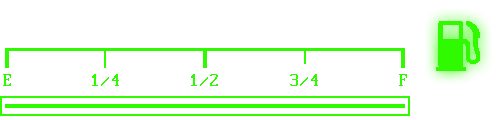
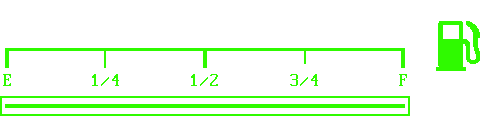
client: работа над нпц "Заправка"

Changed region(s): [[0.84, 0.1, 0.99, 0.675]]

diff --git a/sublayers_common/static/js/location/npc_gas_station.js b/sublayers_common/static/js/location/npc_gas_station.js
@@ -1,0 +1,152 @@
+var LocationGasStationNPC = (function (_super) {
+    __extends(LocationGasStationNPC, _super);
+
+    function LocationGasStationNPC(npc_rec, jq_town_div, building_name) {
+        //console.log('LocationPlaceNPC', npc_rec);
+        _super.call(this, npc_rec, jq_town_div, building_name);
+
+        this.filler_div_max_width = 400;
+        this.rail_width = 0;
+        this.min_carette_x = 0;
+        this.current_prc_gas = 0;
+        this.jq_repair_page = null;
+        this.jq_gs_fill_gas = null;
+        this.jq_gs_fill_need = null;
+        this.jq_gs_carette = null;
+    }
+
+    LocationGasStationNPC.prototype.get_self_info = function () {
+        //console.log('LocationPlaceBuilding.prototype.get_self_info');
+    };
+
+    LocationGasStationNPC.prototype.activate = function () {
+        //console.log('LocationHangarNPC.prototype.activate');
+        _super.prototype.activate.call(this);
+        this.update();
+    };
+
+    LocationGasStationNPC.prototype.update = function (data) {
+        console.log('LocationGasStationNPC.prototype.activate');
+        this.jq_repair_page = this.jq_main_div.find('.npc-gas-station-scale-block-main');
+        var jq_repair_page = this.jq_repair_page;
+        this.jq_repair_page.empty();
+
+        if (user.example_car) {
+            user.example_car.fuel = user.example_car.fuel / 2;
+            jq_repair_page.append(
+                '<div class="npc-gas-station-fillcar-block">' +
+                    '<div class="building-gas-repair-scale-block">' +
+                        '<div class="building-gas-repair-scale"></div>' +
+                        '<div class="building-gas-repair-fill"></div>' +
+                        '<div id="gasStationRepairNeedFeel" class="building-gas-repair-fill need-for-feel"></div>' +
+                        '<div id="gasStationRepairInGasTank" class="building-gas-repair-fill in-gas-tank"></div>' +
+                        '<div id="gasStationRepairRail" class="building-gas-repair-rail">' +
+                            '<div id="gasStationRepairCarrette" class="building-gas-repair-carette"></div>' +
+                        '</div>' +
+                        '<div id="gasStationRepairGasValue" class="building-gas-repair-hp-value building-gas-repair-text"></div>' +
+                        '<div class="building-gas-repair-hp-text building-gas-repair-text">л</div>' +
+                    '</div>' +
+                '</div>');
+
+            this.filler_div_max_width = jq_repair_page.find('.building-gas-repair-fill').first().outerWidth();
+            this.jq_gs_fill_gas = jq_repair_page.find('#gasStationRepairInGasTank');
+            this.jq_gs_fill_need = jq_repair_page.find('#gasStationRepairNeedFeel');
+            this.jq_gs_carette = jq_repair_page.find('#gasStationRepairCarrette');
+            this.jq_gas_value = jq_repair_page.find('#gasStationRepairGasValue');
+
+
+            // Повесить драгабл на каретку
+            var jq_rail = jq_repair_page.find('#gasStationRepairRail');
+            this.rail_width = jq_rail.outerWidth() - this.jq_gs_carette.outerWidth();
+            this.jq_gs_carette.draggable({
+                containment: jq_rail,
+                axis: "x",
+                start: LocationPlace.start_drag_handler,
+                drag: this.drag_handler.bind(this)
+            });
+
+            // Установить начальные значения для филов и карретки
+            var prc_hp = user.example_car.fuel / user.example_car.max_fuel;
+            this.min_carette_x = prc_hp * this.rail_width;
+            this.current_prc_gas = prc_hp;
+            this.set_filler(this.jq_gs_fill_gas, prc_hp);
+            this.set_filler(this.jq_gs_fill_need, prc_hp);
+            this._set_carette(prc_hp);
+            this._show_text_gas();
+        }
+        else {
+            jq_repair_page.text('Отсутствует машинка');
+        }
+
+
+        _super.prototype.update.call(this, data);
+    };
+
+    LocationGasStationNPC.prototype.set_filler = function (jq_filler, prc) {
+        jq_filler.width(prc * this.filler_div_max_width);
+    };
+
+    LocationGasStationNPC.prototype._set_carette = function (prc) {
+        this.jq_gs_carette.animate({'left': this.rail_width * prc}, 100);
+    };
+
+    LocationGasStationNPC.prototype._get_gas_by_prc = function (prc) {
+        return Math.round(prc * user.example_car.max_fuel);
+    };
+
+    LocationGasStationNPC.prototype._show_text_gas = function () {
+        var gas = this._get_gas_by_prc(this.current_prc_gas);
+        this.jq_gas_value.text(gas);
+
+        // заполнить в шапку стоимость ремонта
+        var current_gas = gas - user.example_car.fuel;
+        if (current_gas < 0) current_gas = 0;
+        this.set_header_text(
+            'Заправка: ' + current_gas.toFixed(0) + ' NC</br>' +
+            'Заправка всего: ' + (user.example_car.max_fuel - user.example_car.fuel).toFixed(0) + 'NC'
+        );
+    };
+
+    LocationGasStationNPC.prototype.drag_handler = function (event, ui) {
+        var original = ui.originalPosition;
+        ui.position = {
+            left: (event.clientX - location_draggable_click.x + original.left) / window_scaled_prc,
+            top: original.top / window_scaled_prc
+        };
+        if (ui.position.left < this.min_carette_x) ui.position.left = this.min_carette_x;
+        if (ui.position.left > this.rail_width) ui.position.left = this.rail_width;
+
+        this.current_prc_gas = ui.position.left / this.rail_width;
+        this._show_text_gas();
+        this.set_filler(this.jq_gs_fill_need, this.current_prc_gas);
+    };
+
+    LocationGasStationNPC.prototype.set_buttons = function () {
+        if (!locationManager.isActivePlace(this)) return;
+        if (user.example_car) {
+            locationManager.setBtnState(1, '</br>Обменять ТС', true);
+            locationManager.setBtnState(2, '</br>Продать ТС', true);
+        }
+        else {
+            locationManager.setBtnState(1, '</br>Купить ТС', true);
+            locationManager.setBtnState(2, '</br>Продать ТС', false);
+        }
+        locationManager.setBtnState(3, '</br>Назад', true);
+        locationManager.setBtnState(4, '</br>Выход', true);
+    };
+
+    LocationGasStationNPC.prototype.clickBtn = function (btnIndex) {
+        //console.log('LocationHangarNPC.prototype.clickBtn', btnIndex);
+        switch (btnIndex) {
+            case '1':
+                break;
+            case '2':
+                break;
+            default:
+                _super.prototype.clickBtn.call(this, btnIndex);
+        }
+    };
+
+    return LocationGasStationNPC;
+})(LocationPlaceNPC);
+

diff --git a/sublayers_common/static/js/location/building_service_manager.js b/sublayers_common/static/js/location/building_service_manager.js
@@ -40,20 +40,20 @@ var LocationServiceBuilding = (function (_super) {
             jq_repair_page.append(
                 '<div class="autoservice-repair-block">' +
                     '<div class="autoservice-repair-car">' + user.templates.html_car_img + '</div>' +
-                    '<div class="autoservice-repair-scale-block">' +
-                        '<div class="autoservice-repair-scale"></div>' +
-                        '<div class="autoservice-repair-fill"></div>' +
-                        '<div id="autoserviceRepairNeedFeel" class="autoservice-repair-fill need-for-feel"></div>' +
-                        '<div id="autoserviceRepairInGasTank" class="autoservice-repair-fill in-gas-tank"></div>' +
-                        '<div id="autoserviceRepairRail" class="autoservice-repair-rail">' +
-                            '<div id="autoserviceRepairCarrette" class="autoservice-repair-carette"></div>' +
+                    '<div class="building-gas-repair-scale-block">' +
+                        '<div class="building-gas-repair-scale"></div>' +
+                        '<div class="building-gas-repair-fill"></div>' +
+                        '<div id="autoserviceRepairNeedFeel" class="building-gas-repair-fill need-for-feel"></div>' +
+                        '<div id="autoserviceRepairInGasTank" class="building-gas-repair-fill in-gas-tank"></div>' +
+                        '<div id="autoserviceRepairRail" class="building-gas-repair-rail">' +
+                            '<div id="autoserviceRepairCarrette" class="building-gas-repair-carette"></div>' +
                         '</div>' +
-                        '<div id="autoserviceRepairHPValue" class="autoservice-repair-hp-value autoservice-repair-text"></div>' +
-                        '<div class="autoservice-repair-hp-text autoservice-repair-text">HP</div>' +
+                        '<div id="autoserviceRepairHPValue" class="building-gas-repair-hp-value building-gas-repair-text"></div>' +
+                        '<div class="building-gas-repair-hp-text building-gas-repair-text">HP</div>' +
                     '</div>' +
                 '</div>');
 
-            this.filler_div_max_width = jq_repair_page.find('.autoservice-repair-fill').first().outerWidth();
+            this.filler_div_max_width = jq_repair_page.find('.building-gas-repair-fill').first().outerWidth();
             this.jq_repair_fill_gas = jq_repair_page.find('#autoserviceRepairInGasTank');
             this.jq_repair_fill_need = jq_repair_page.find('#autoserviceRepairNeedFeel');
             this.jq_repair_carette = jq_repair_page.find('#autoserviceRepairCarrette');

diff --git a/sublayers_common/static/css/templates/locations/building.css b/sublayers_common/static/css/templates/locations/building.css
@@ -210,7 +210,7 @@
     margin-bottom: 10px;
 }
 
-.autoservice-repair-scale-block {
+.building-gas-repair-scale-block {
     position: relative;
     width: 500px;
     height: 120px;
@@ -218,7 +218,7 @@
     top: -20px;
 }
 
-.autoservice-repair-fill {
+.building-gas-repair-fill {
     position: absolute;
     left: 5px;
     top: 17px;
@@ -227,11 +227,11 @@
     background-color: #082801;
 }
 
-.autoservice-repair-fill.need-for-feel {background-color: #0e4b00;}
+.building-gas-repair-fill.need-for-feel {background-color: #0e4b00;}
 
-.autoservice-repair-fill.in-gas-tank {background-color: #2ffa00;}
+.building-gas-repair-fill.in-gas-tank {background-color: #2ffa00;}
 
-.autoservice-repair-scale {
+.building-gas-repair-scale {
     position: absolute;
     left: 0;
     top: 0;
@@ -240,7 +240,7 @@
     background: transparent url("/static/content/locations/institutions/autoservice/repair_scale.png") 100% 100% no-repeat;
 }
 
-.autoservice-repair-rail {
+.building-gas-repair-rail {
     position: absolute;
     left: -19px;
     top: 96px;
@@ -249,7 +249,7 @@
     /*background-color: red;*/
 }
 
-.autoservice-repair-carette {
+.building-gas-repair-carette {
     position: absolute;
     width: 48px;
     height: 105px;
@@ -258,13 +258,13 @@
     cursor: pointer;
 }
 
-.autoservice-repair-text {
+.building-gas-repair-text {
     color: #2ffa00;
     font-size: 18px;
     line-height: 29px;
 }
 
-.autoservice-repair-hp-value {
+.building-gas-repair-hp-value {
     position: absolute;
     left: 432px;
     top: 92px;
@@ -275,7 +275,7 @@
     border: 1px solid #135806;
 }
 
-.autoservice-repair-hp-text {
+.building-gas-repair-hp-text {
     position: absolute;
     left: 485px;
     top: 95px;

diff --git a/sublayers_server/templates/play.html b/sublayers_server/templates/play.html
@@ -64,6 +64,7 @@
     <link rel="stylesheet" href="{{ static_url('css/templates/locations/town_main.css') }}"/>
     <link rel="stylesheet" href="{{ static_url('css/templates/locations/trader.css') }}"/>
     <link rel="stylesheet" href="{{ static_url('css/templates/locations/trainer.css') }}"/>
+    <link rel="stylesheet" href="{{ static_url('css/templates/locations/npc_gas_station.css') }}"/>
     
     <link rel="stylesheet" href="{{ static_url('css/templates/journal/journal_window.css') }}"/>
     <link rel="stylesheet" href="{{ static_url('css/templates/journal/journal_window_quests.css') }}"/>
@@ -149,6 +150,7 @@
     <script src="{{ static_url('js/location/mechanic_manager.js') }}"></script>
     <script src="{{ static_url('js/location/tuner_manager.js') }}"></script>
     <script src="{{ static_url('js/location/trader_manager.js') }}"></script>
+    <script src="{{ static_url('js/location/npc_gas_station.js') }}"></script>
     <script src="{{ static_url('js/journal_managers.js') }}"></script>
     <script src="{{ static_url('js/barter_manager.js') }}"></script>
     <script src="{{ static_url('js/cache.js') }}"></script>

diff --git a/sublayers_common/static/js/location/location_manager.js b/sublayers_common/static/js/location/location_manager.js
@@ -350,6 +350,8 @@ var LocationPlace = (function () {
                 return (new LocationMechanicNPC(npc_rec, jq_town_div, key));
             case 'trader':
                 return (new LocationTraderNPC(npc_rec, jq_town_div, key));
+            case 'npc_gas_station':
+                return (new LocationGasStationNPC(npc_rec, jq_town_div, key));
             default:
                 return (new LocationPlaceNPC(npc_rec, jq_town_div, key));
         }

diff --git a/sublayers_server/templates/location/npc_gas_station.html b/sublayers_server/templates/location/npc_gas_station.html
@@ -1,0 +1,12 @@
+{% set npc_photo = cur_npc.photo %}
+{% set npc_title = cur_npc.title %}
+{% set npc_text = cur_npc.text %}
+
+<div class="npc-gas-station-main">
+    {% include npc_header.html %}
+    <div class="npc-gas-station-center">
+        <div class="npc-gas-station-scale-block-main"></div>
+        <div class="npc-gas-station-empty-tanks-block"></div>
+    </div>
+    {% include npc_inventory.html %}
+</div>

diff --git a/sublayers_server/templates/location/npc_window.html b/sublayers_server/templates/location/npc_window.html
@@ -10,6 +10,8 @@
     {% include tuner_window.html %}
 {% elif cur_npc.type == 'trader' %}
     {% include trader_window.html %}
+{% elif cur_npc.type == 'npc_gas_station' %}
+    {% include npc_gas_station.html %}
 {% else %}
     {% set npc_photo = cur_npc.photo %}
     {% set npc_title = cur_npc.title %}

diff --git a/sublayers_server/model/registry/classes/mobiles.py b/sublayers_server/model/registry/classes/mobiles.py
@@ -75,8 +75,8 @@ class Mobile(Root):
     a_backward = FloatAttribute(default=-3, caption=u"Ускорение разгона назад")
     a_braking = FloatAttribute(default=-6, caption=u"Ускорение торможения")
 
-    max_fuel = FloatAttribute(default=100, caption=u"Максимальное количество топлива")
-    fuel = FloatAttribute(default=100, caption=u"Текущее количество топлива")
+    max_fuel = FloatAttribute(default=100, caption=u"Максимальное количество топлива", tags="client")
+    fuel = FloatAttribute(default=100, caption=u"Текущее количество топлива", tags="client")
     p_fuel_rate = FloatAttribute(default=0.5, caption=u"Расход топлива (л/с)")
 
     # атрибуты влияющие на эффективность стрельбы

diff --git a/sublayers_server/model/registry/classes/poi.py b/sublayers_server/model/registry/classes/poi.py
@@ -174,3 +174,7 @@ class Barman(Institution):
 
 class Girl(Institution):
     type = TextAttribute(default='girl', caption=u"Специальность NPC", tags='client')
+
+
+class GasStationNPC(Institution):
+    type = TextAttribute(default='npc_gas_station', caption=u"Специальность NPC", tags='client')
